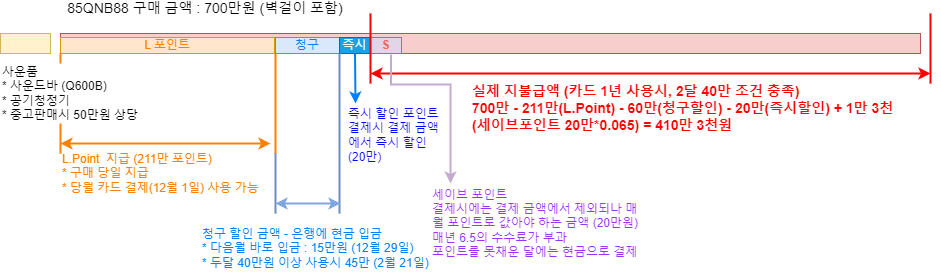
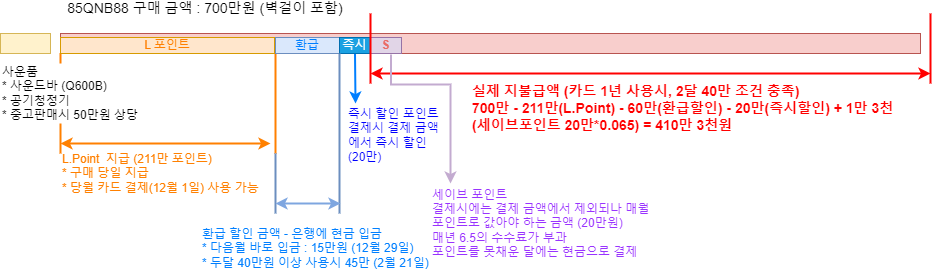
fix term for pay-back

diff --git a/_posts/2023-05-07-85QNB88-구입기.md b/_posts/2023-05-07-85QNB88-구입기.md
@@ -21,8 +21,8 @@ tags: 일상이야기 쇼핑
 
 나도 이런류의 할인을 많이 받아본건 아니어서 어떤 내용인지 알아봐야했다.
  * L.point - 구입 즉시 지급된다. 첫 결제때 사용 가능하다
- * 즉시할인 - 결제때 바로 할인되는 금액. 청구할인이라 부르기도 하는데, 영수증상 명칭은 즉시할인인듯 하다.
- * 청구할인 - 추후 지급되는 금액. 조건없이 주는 청구할인이 있고 카드 실적에 연동되는 청구할인이 있다.
+ * 즉시할인 - 구매때 바로 할인되는 금액. 청구할인이라 부르기도 하는데, 영수증상 명칭은 즉시할인인듯 하다.
+ * 환급할인 - 추후 지급되는 금액. 페이백. 조건없이 주는 환급할인이 있고 카드 실적에 연동되는 환급할인이 있다. 이것도 청구할인이라고 하기도 하는데 카드 결제일시에 지불금액에서 제외되는 청구할인과는 조금 다르다.
  * 세이브포인트 - 포인트로 결제하는 금액. 첫 결제 금액에서는 현금대신 포인트를 사용하여 계산이 되서 실제로 지출은 되지 않지만, 매달 포인트로 갚지 못하면 현금으로 갚아야한다. 고객이 어떤 형태로든 지불해야 하는 금액이며 따라서 보통 말하는 체감 할인가에 포함해서 말하지 않는다.
 
 여기서 주의해야할것이 세이브포인트인데, 보통 3개월 할부로 포인트를 갚고 매년 6.5%의 수수료가 나온다. 내가 구매한 곳에서는 즉시할인과 청구할인을 많이 챙겨줄수 있는 거의 최소한의 세이브포인트로(20만원) 해주었기 때문에 연간 만원 정도의 수수료만 나오지만, 많이 설정할 경우 생각하지 못했던 수수료가 나올수 있긴때문에 잘 살펴봐야하는 부분이다.
